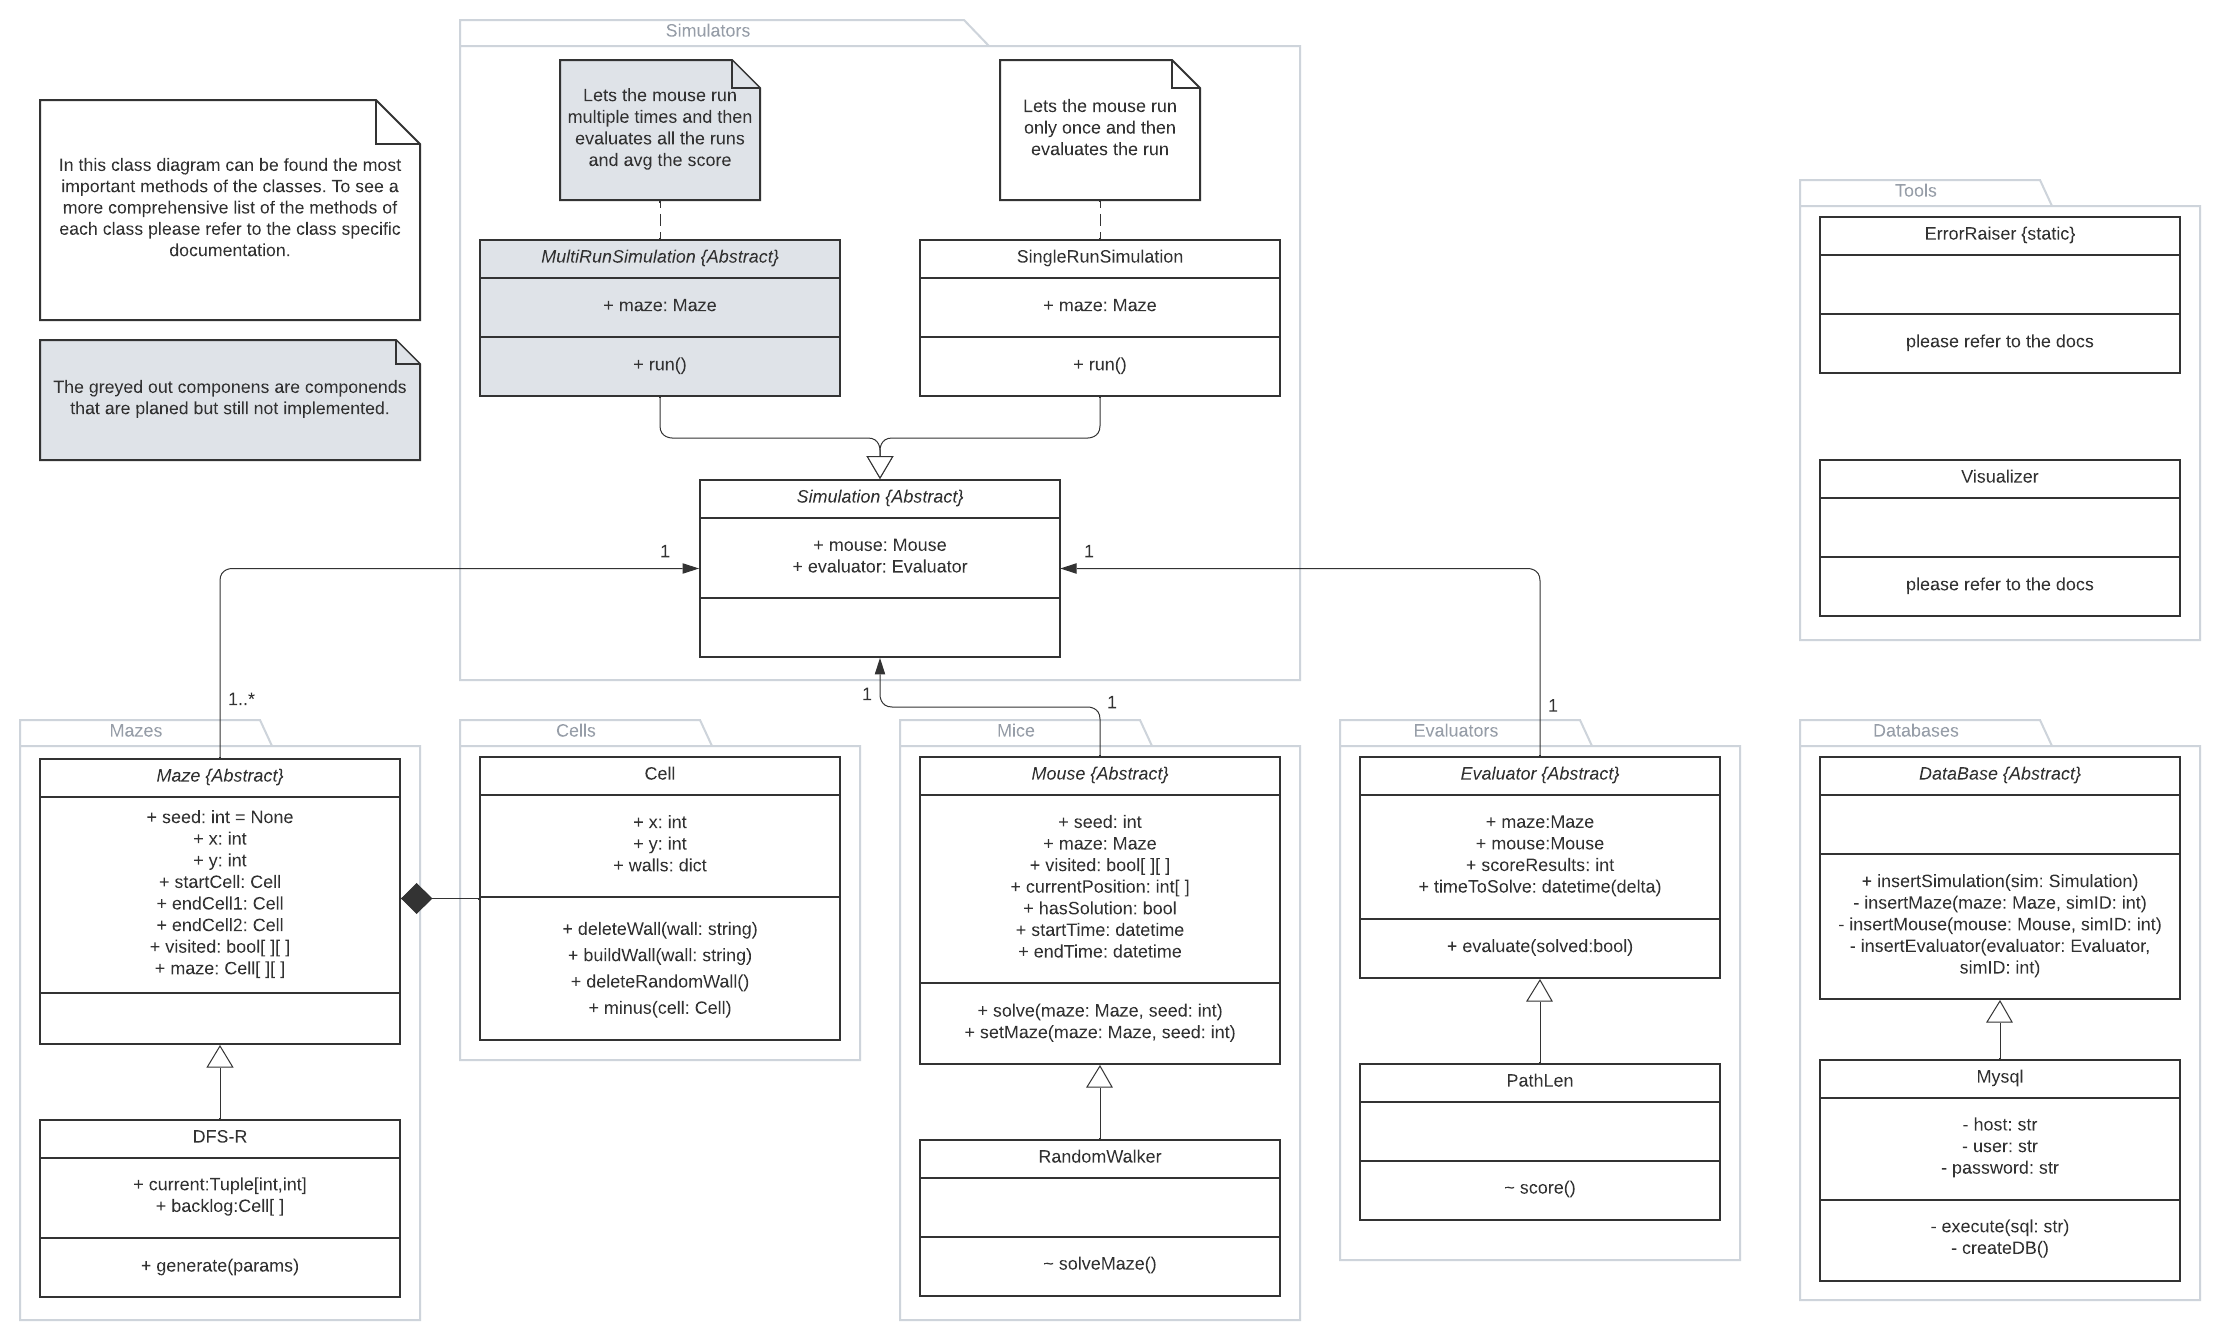
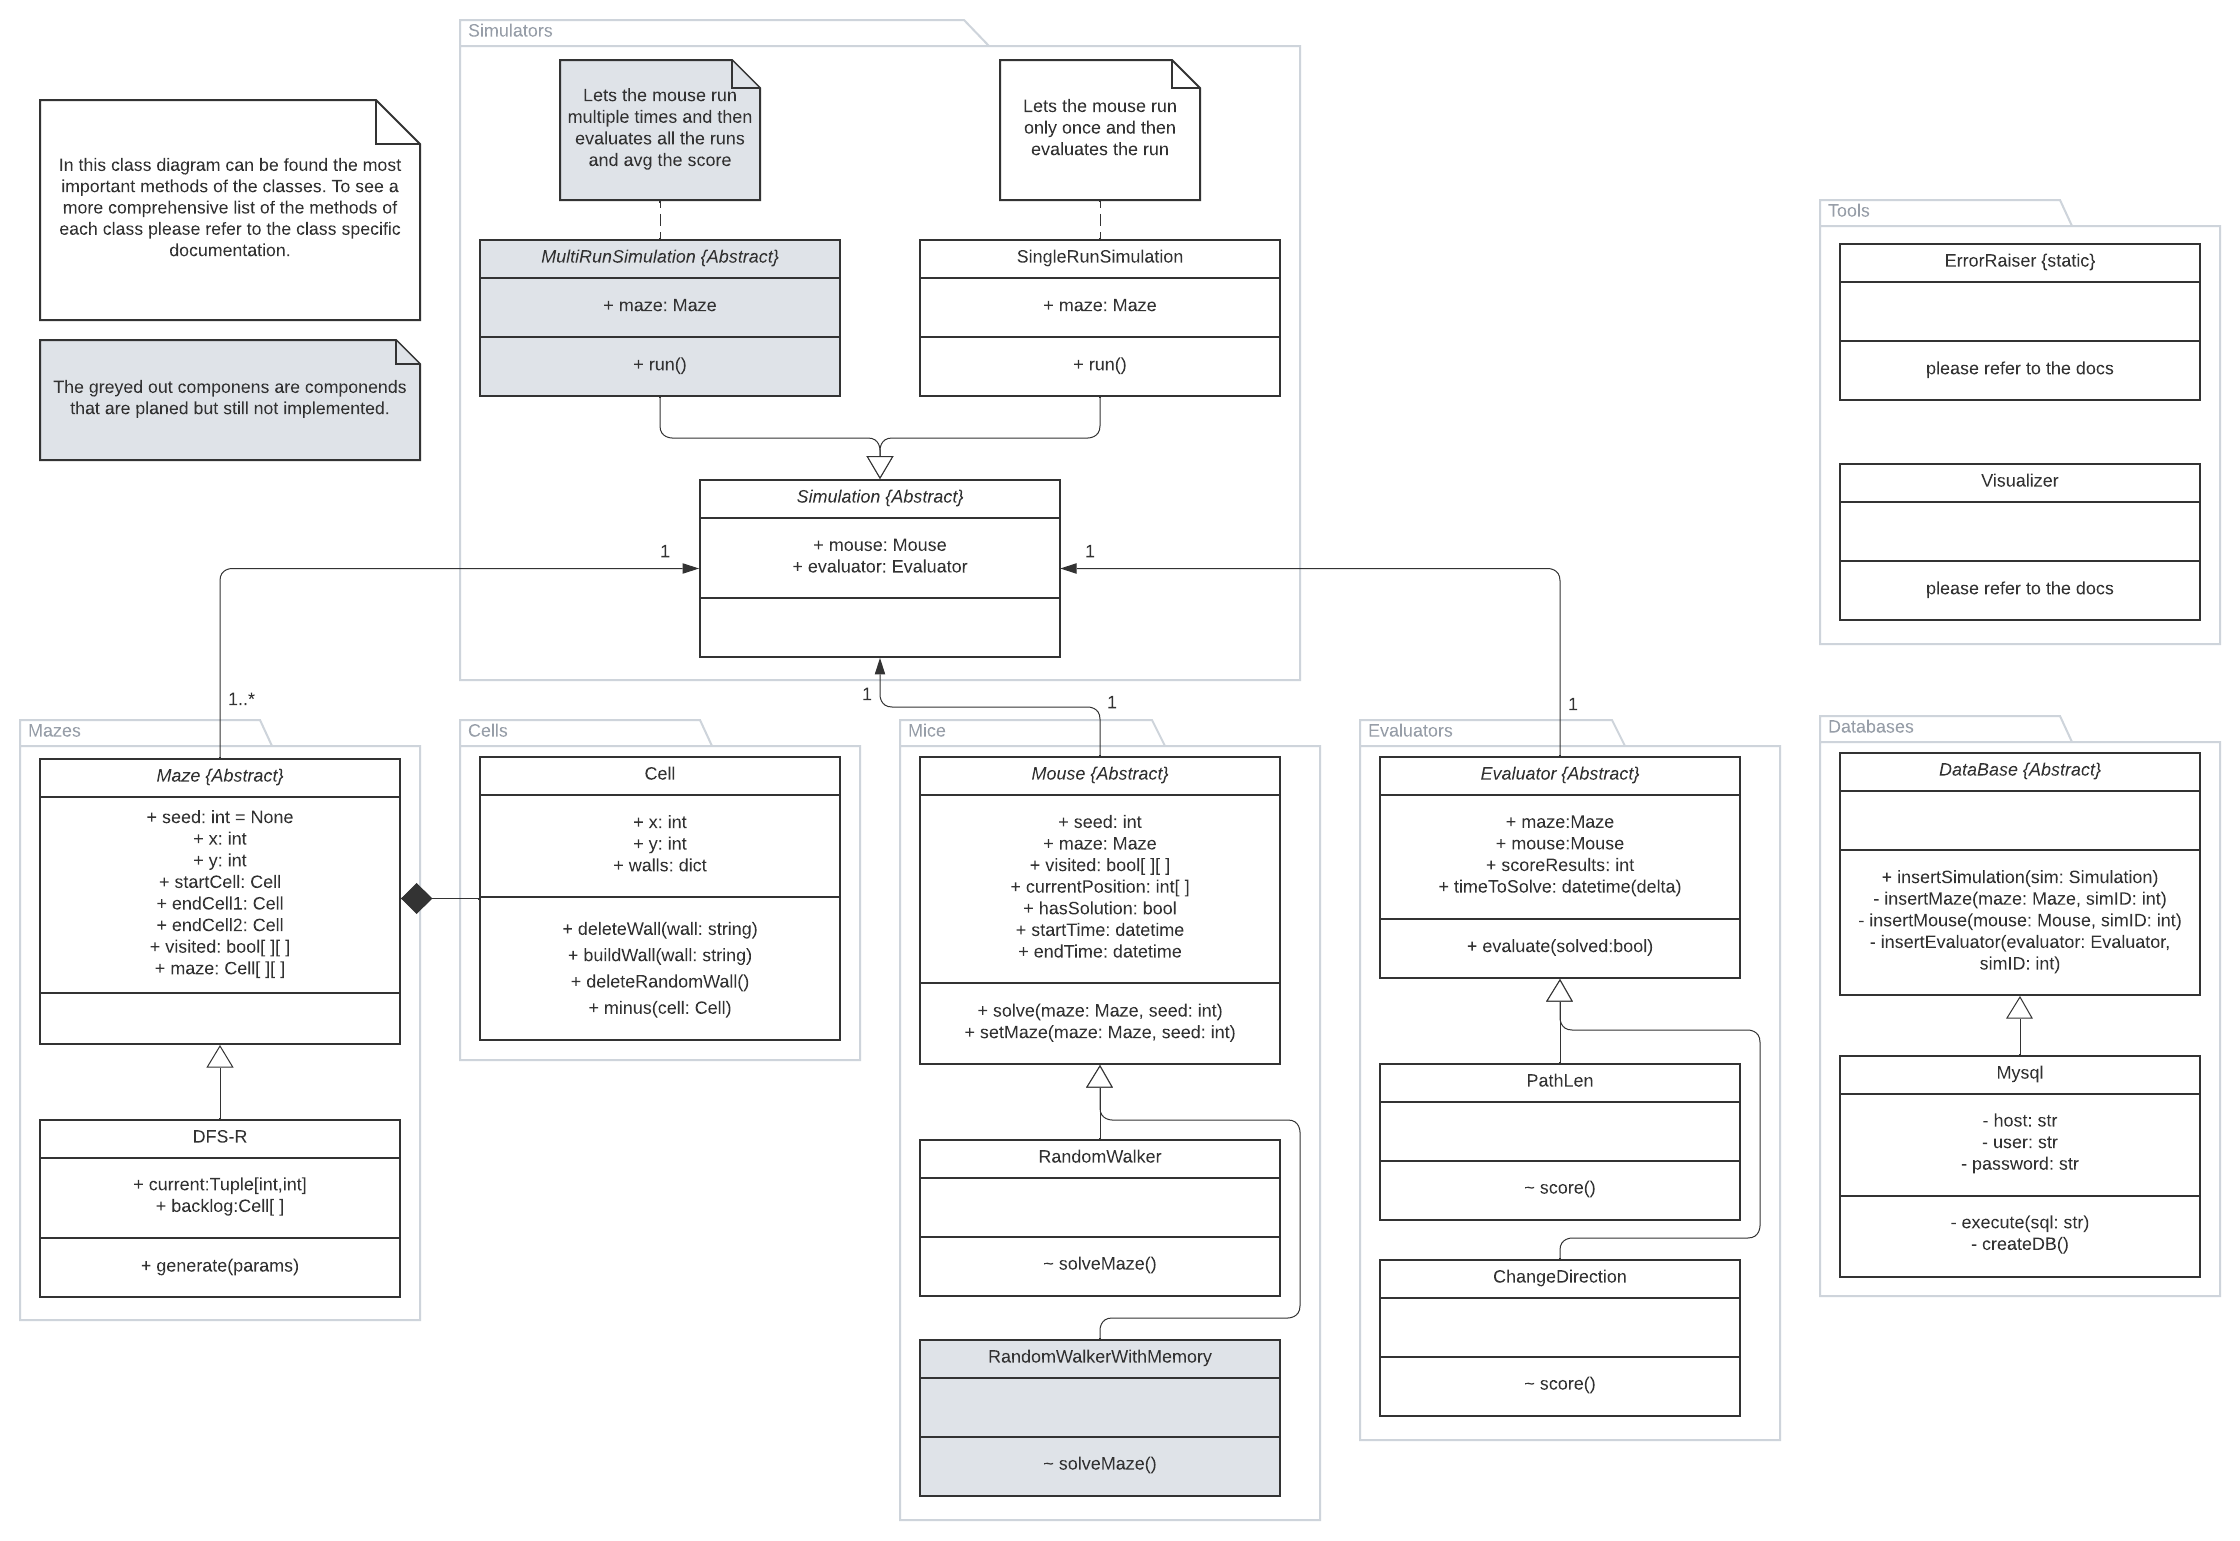
Adding description of new evaluator to Readme.md file.

diff --git a/Readme.md b/Readme.md
@@ -34,7 +34,7 @@ Nice to have:
     * [ ] WorstScoreSimulator
 * [ ] Multiple Maze generators with different rules
 * [ ] Multiple Mice with a variety of search algorithms
-  * [ ] RandomWithMemory
+  * [ ] RandomWalkerWithMemory
   * [ ] Mice with post solution procecing (Mice that after having complete the first run calculates a best path with the memory gained.)
     * [ ] GraphMice
 * [X] Multiple evaluation function
@@ -76,8 +76,10 @@ The following diagram describes the classes of the packages of the library and h
 | Cell | The Cell class is a class that describes the single cells of an maze. |
 | *Mouse* | All the children of the Mouse abstract class can be used to implement the search algorithms to solve the mazes. These are the algorithms to be evaluated. |
 | RandomWalker | The RandomWalker class is a child of the Mouse class and is the most naive algorithm to solve a maze. It has no memory and choses its next step completely randomly. Its a good baseline to compare against. |
+| RandomWalkerWithMemory | The RandomWalkerWithMemory class is a child of the Mouse class and is to solve a maze. It has a memory of where it was and the not taken paths and choses its next step randomly from the paths where it wasn't. Its a good baseline to compare against. |
 | *Evaluator* | All the children of the Evaluator abstract class implement a way to evaluate the mice in the simulations. (This class is an implementation of a Strategy design pattern.)|
 | PathLen | The PathLen class is a child of the Evaluator class and evaluates the mice by calculating the length of the path of the solution the mice find. |
+| ChangeDirection | The ChangeDirection class is a child of the Evaluator class and evaluates the mice by calculating the times the mouse changes its direction in its solution. |
 | *DataBase* | All the children of the DataBase abstract class are used to store the simulation data and their results into a DataBase. |
 | Mysql | The Mysql class is a child of the DataBase class and store the simulation data and their results into a Mysql DataBase. |
 | ErrorRaiser | The ErrorRaiser class implements multiple methods to check certain things (exp.: type of var) and raises errors accordingly. |
